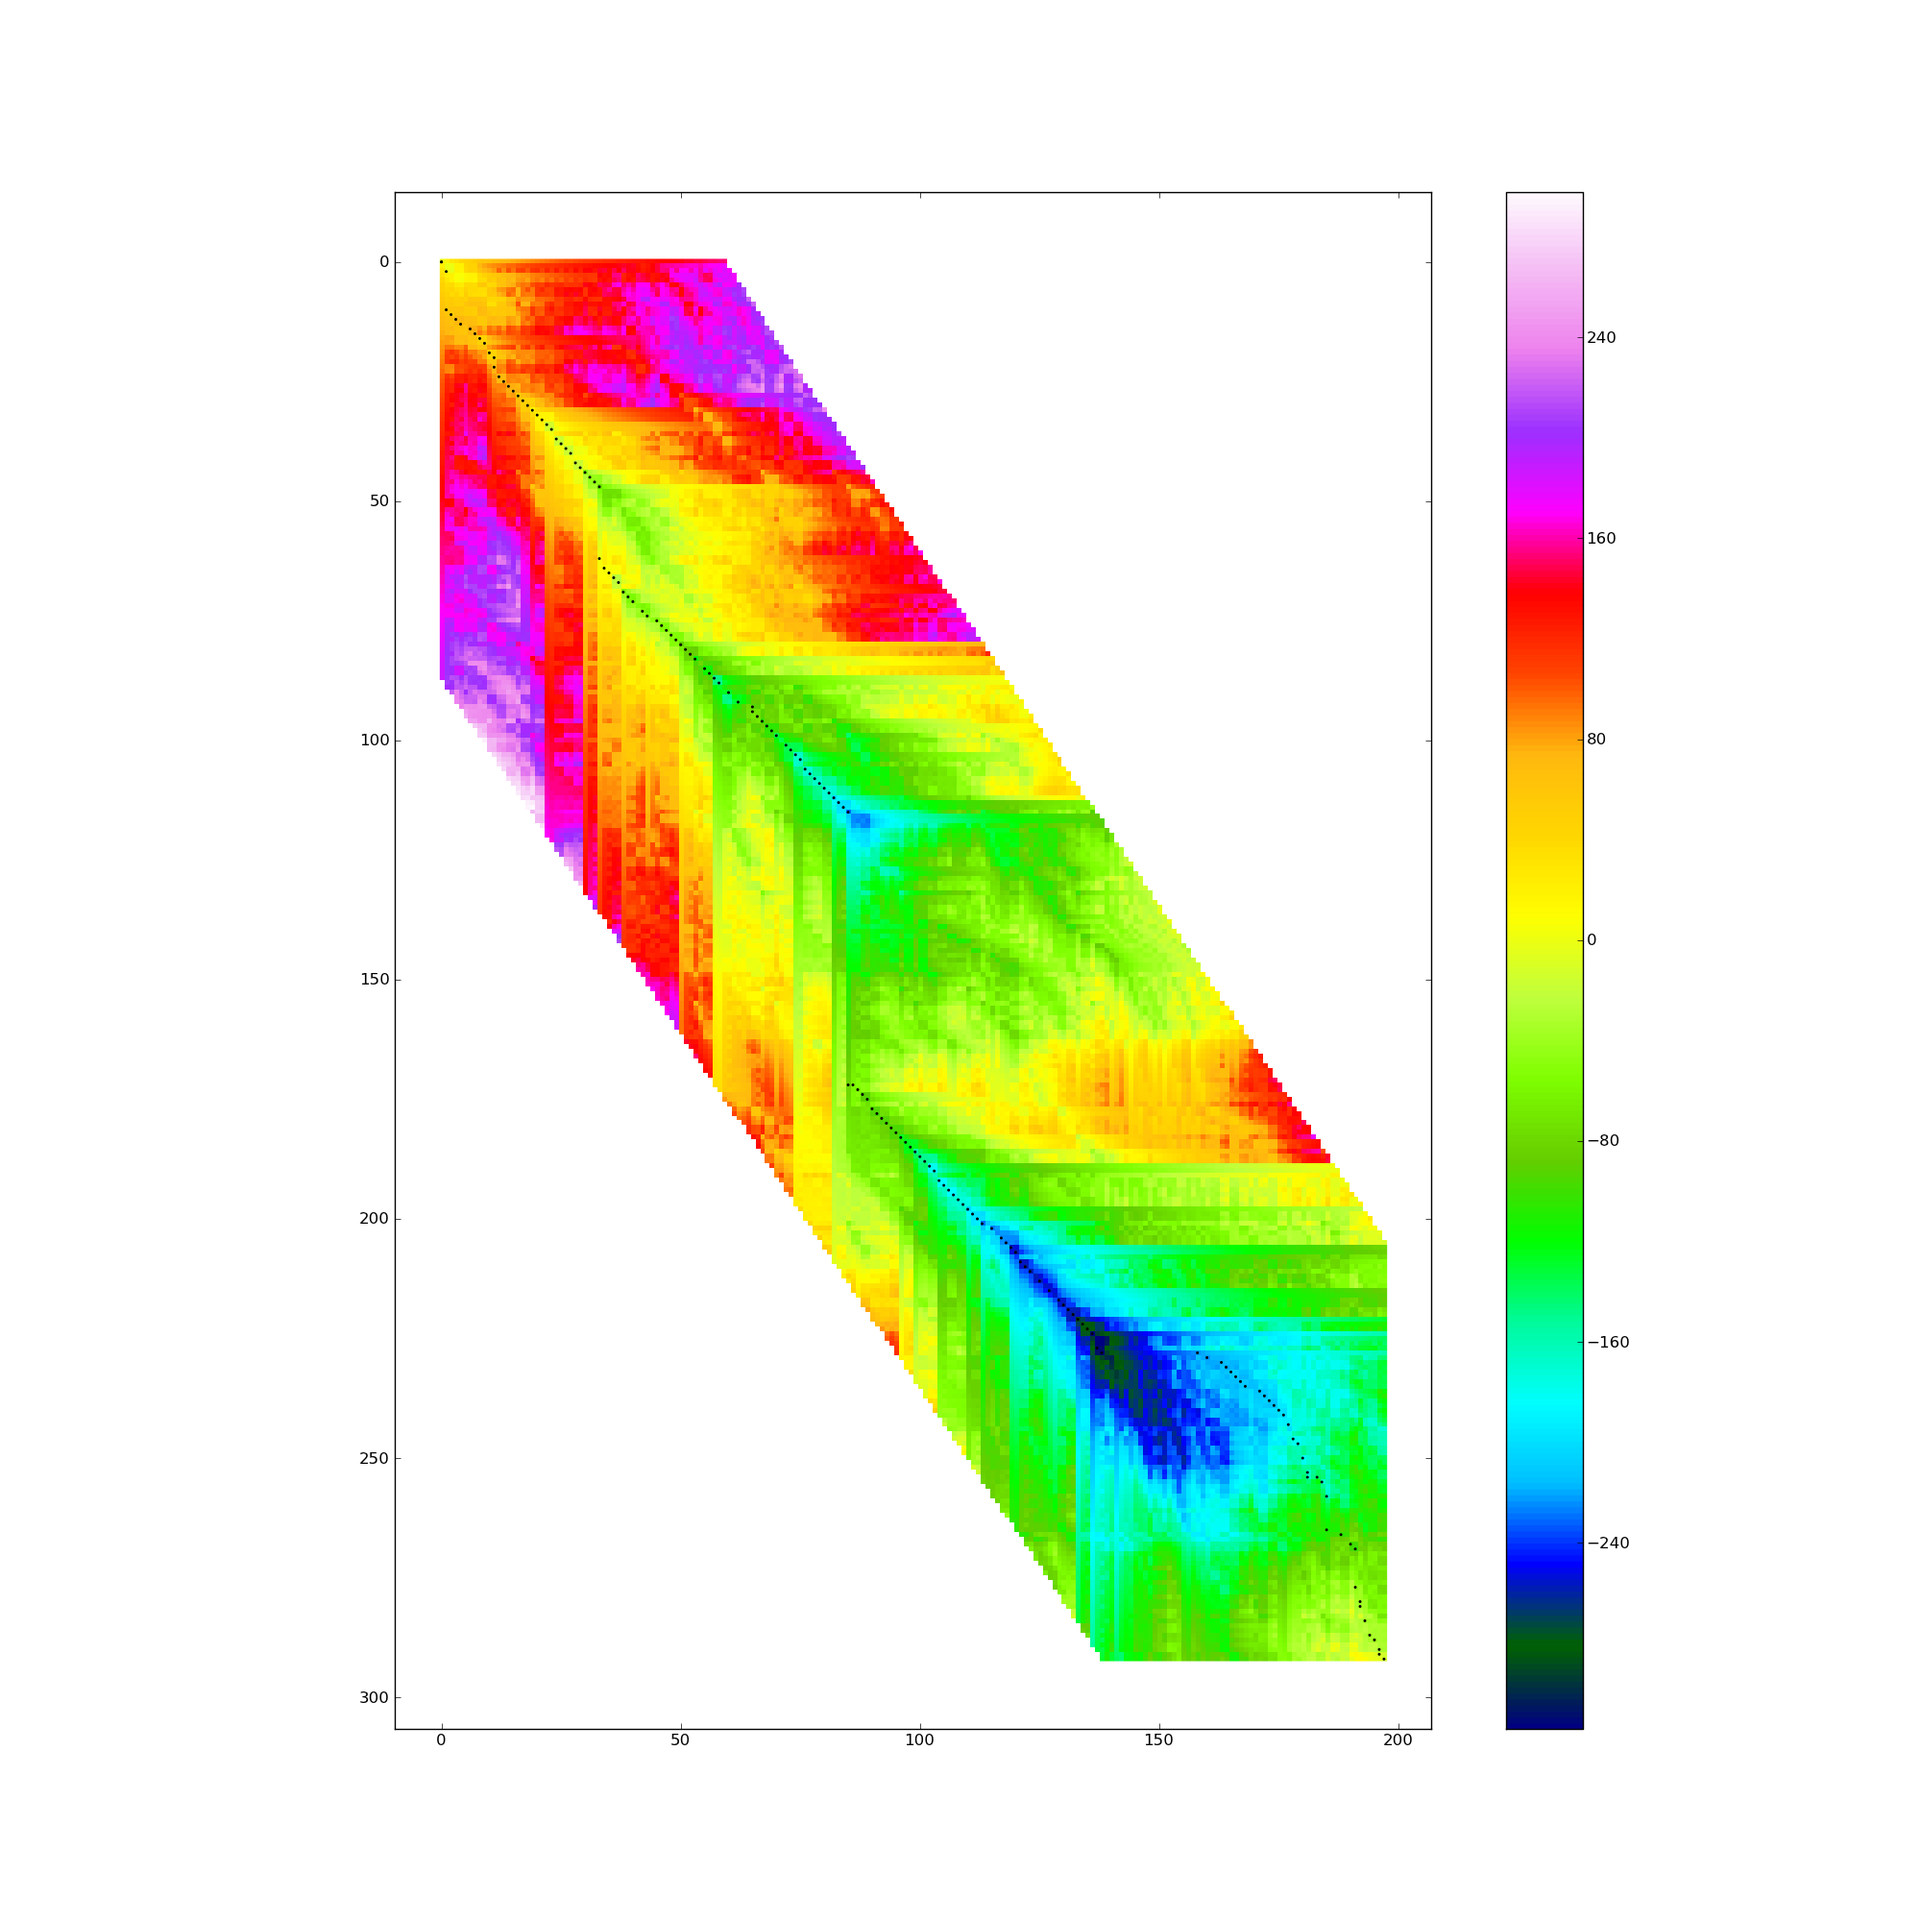
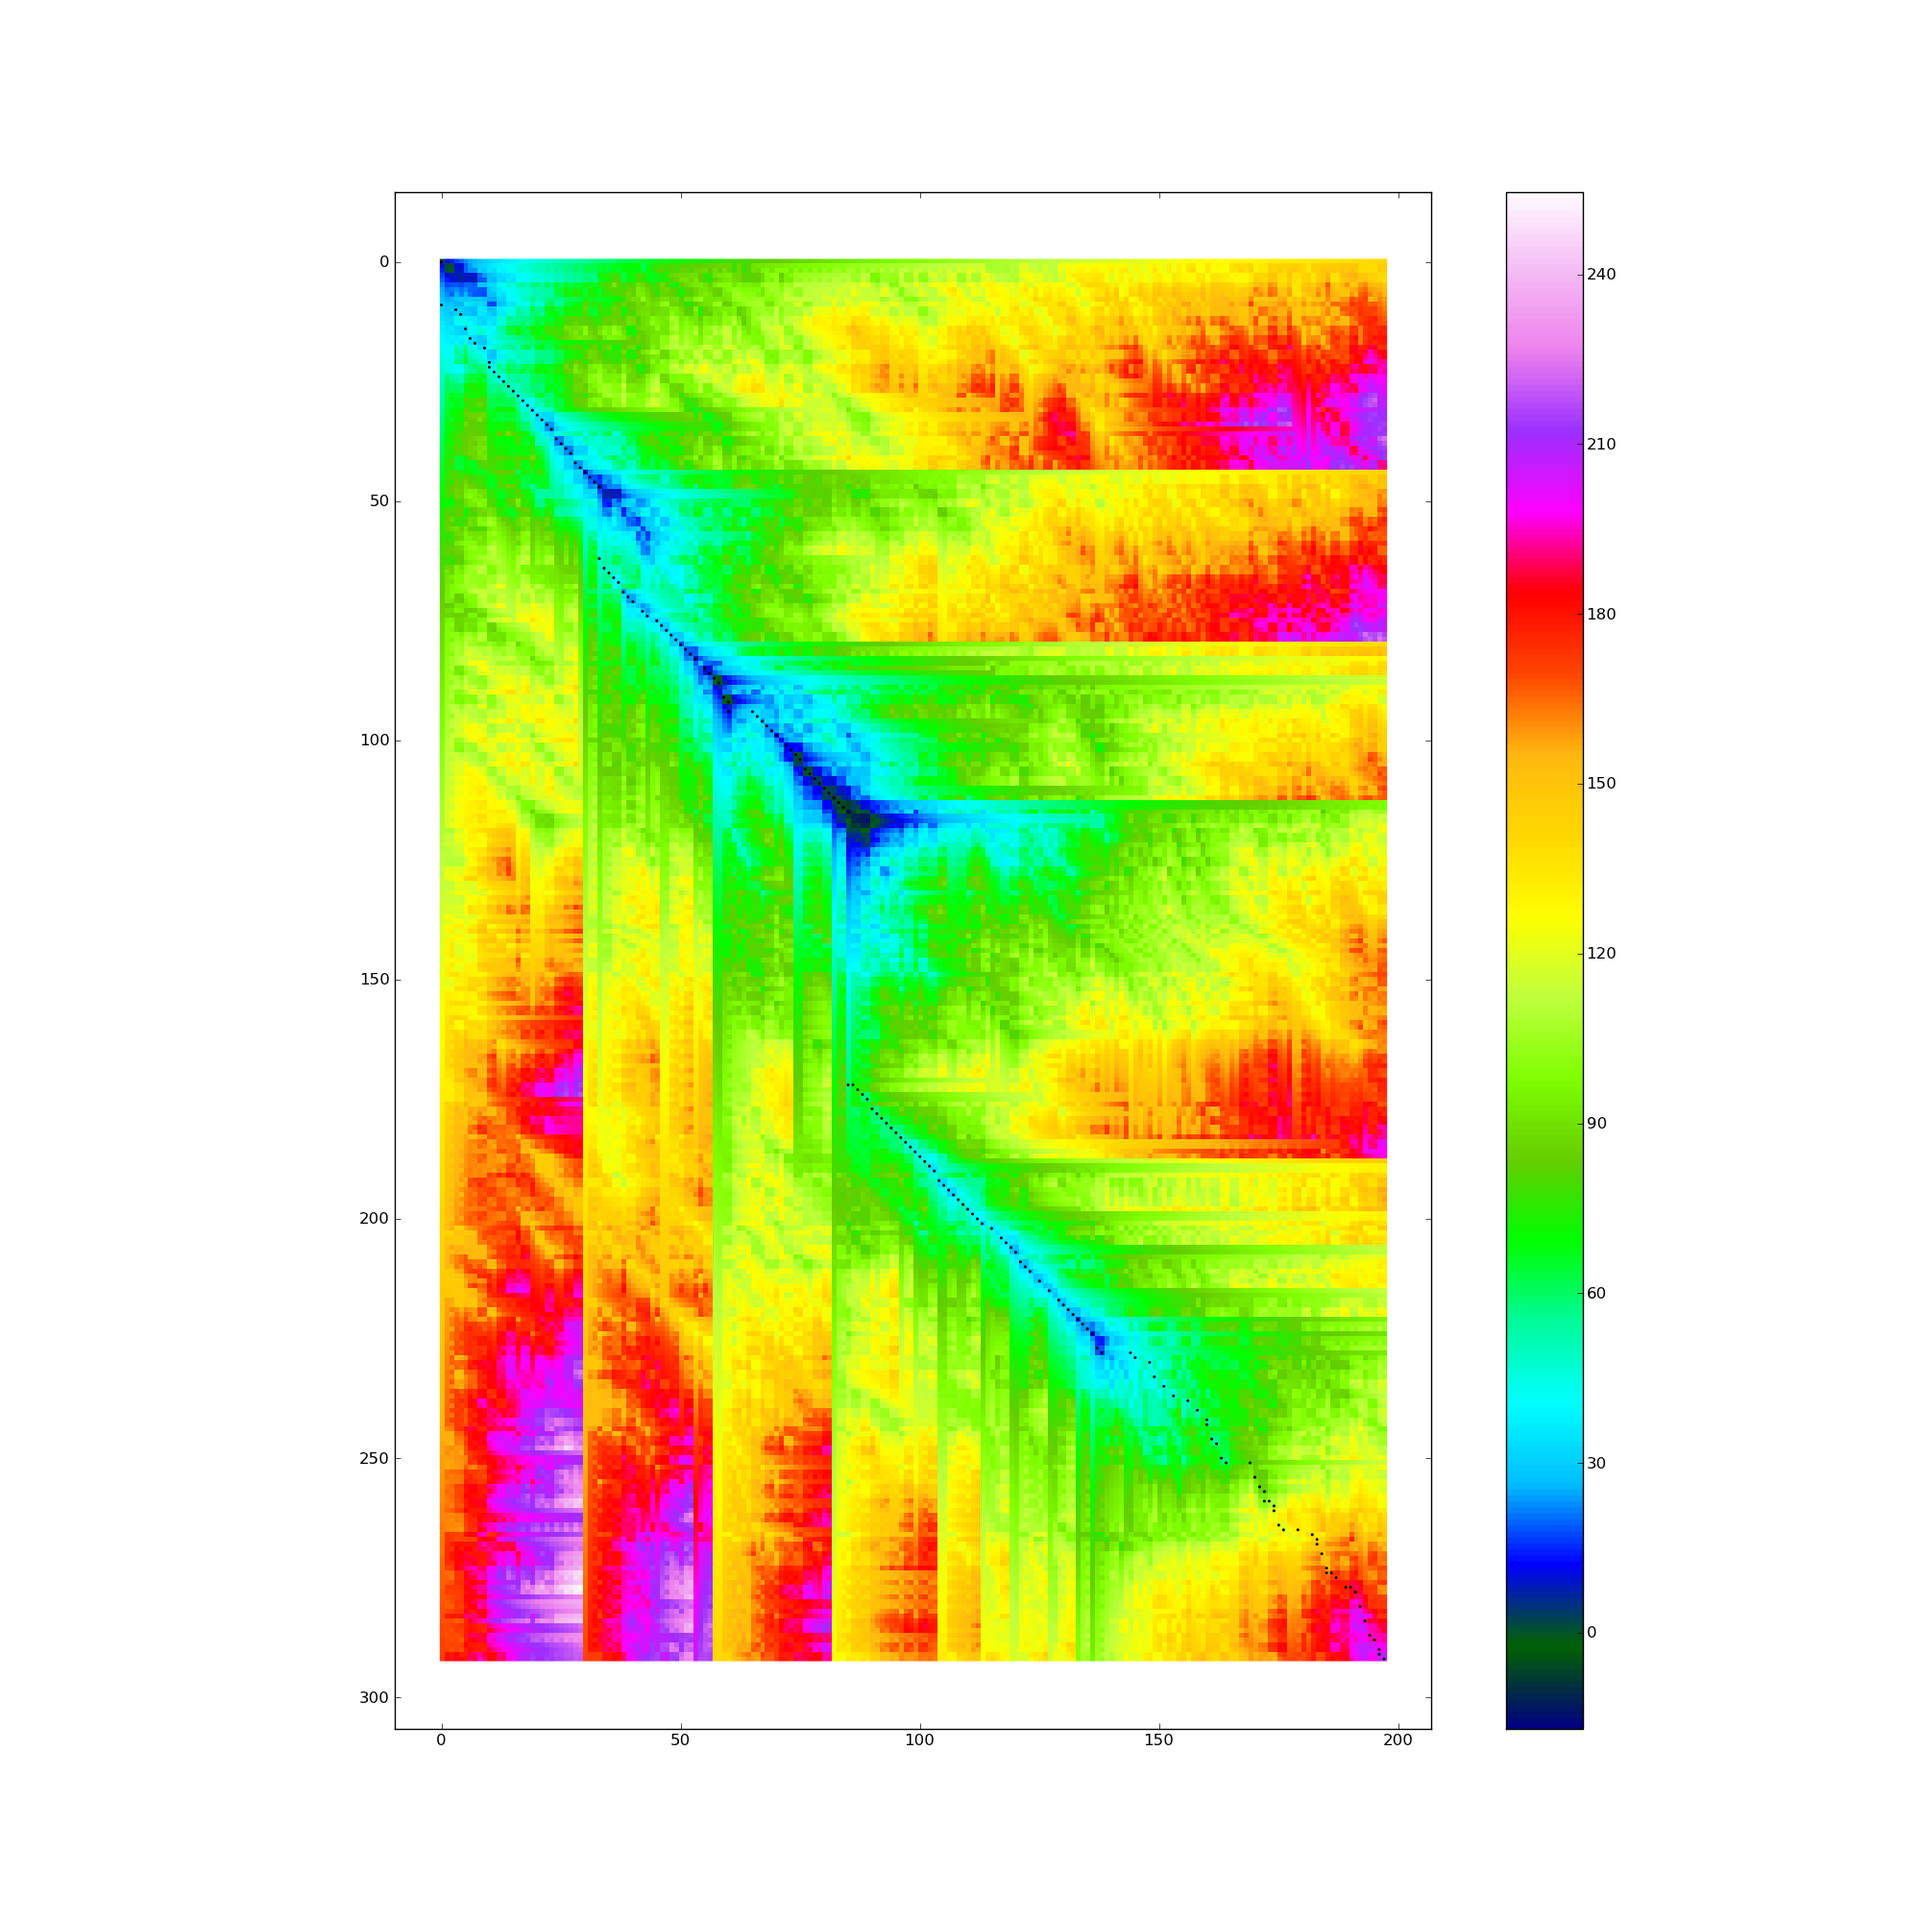
* some minor changes

diff --git a/aligner.py b/aligner.py
@@ -28,15 +28,15 @@ def calculate_cost(fragment1, fragment2):
     """Estimated -log(probability that fragment1 is translation of fragment2).
     Fragment1 and 2 are lists of sentences."""
 
-    #XXX now it doesn't have anything to do with probability, as it gives reults
-    # such as 2**30...
+    #XXX now it doesn't have anything to do with probability, as it
+    # gives "probabilities" such as 2**30...
 
     # paragraph separator with something
     if fragment1 == [_paragraph_separator] or fragment2 == [_paragraph_separator]:
         if fragment1 == fragment2:
-            return -2
+            return -1
         elif not fragment1 or not fragment2: # ¶ with empty
-            return 2
+            return 1
         else: # ¶ matched with something else
             return float('inf')
 
@@ -45,11 +45,11 @@ def calculate_cost(fragment1, fragment2):
         num_sents = len(fragment1) + len(fragment2)
         assert num_sents > 0
         #XXX assuming avg. 1 sentence in 32 is deleted
-        return 20 * sqrt(num_sents)
+        return 10 * sqrt(num_sents)
 
     elif pair_manager.has_pair(_sentence_separator.join(fragment1),
                                _sentence_separator.join(fragment2)):
-        return -30 #XXX
+        return -5 * (len(fragment1)+len(fragment2)) #XXX
 
     else:
         (r, angle) = polar(complex(sum(len(s) for s in fragment1),
@@ -64,6 +64,9 @@ def calculate_cost(fragment1, fragment2):
 
 def plot_flat(fun, rangex, rangey, path=None, filename=None):
     import matplotlib.pyplot as plt
+
+    print 'Plotting...',
+    sys.stdout.flush()
 
     fig = plt.figure(figsize=(20, 20)) # in inches, @ 80dpi
     ax = fig.add_subplot(111)
@@ -84,6 +87,7 @@ def plot_flat(fun, rangex, rangey, path=None, filename=None):
         plt.savefig(filename)
     else:
         plt.show()
+    print '\rPlot done.      '
 
 
 def align(seq1, seq2, plot_filename=None):
@@ -147,6 +151,7 @@ def align(seq1, seq2, plot_filename=None):
                     #print _i, i, _j, j
                     cost[i][j] = new_cost
                     prev[i][j] = (_i, _j)
+    print '\rAlingment done'
 
     assert (i, j) == (len(seq1), len(seq2))
     path = [(i, j, 0.1)]
@@ -190,10 +195,4 @@ if __name__ == '__main__':
     a = align(t1, t2, plot_filename='plot.png')
 
     a.pretty_print(t1, t2)
-
-#    t1 = ('aa', 'aaa', 'aaaaa', 'a')
-#    t2 = ('aa', 'aaaaaa', 'aa')
-#    r = align(t1, t2)
-#    print r
-#    print r.quality
 

diff --git a/toolkit/Alignment.py b/toolkit/Alignment.py
@@ -3,7 +3,7 @@
 
 """
 This module contains the Alignment class, which is used to handle
-text alignments. You can also run this file it from the command line
+text alignments. You can also run this file from the command line
 to pretty-print an alignment.
 """
 
@@ -24,7 +24,6 @@ class Alignment:
         for i, j, c in data:
             assert _i <= i, (_i, i)
             assert _j <= j, (_j, j)
-#            assert c >= 0, c
             _i, _j = i, j
         self.data = data
 
